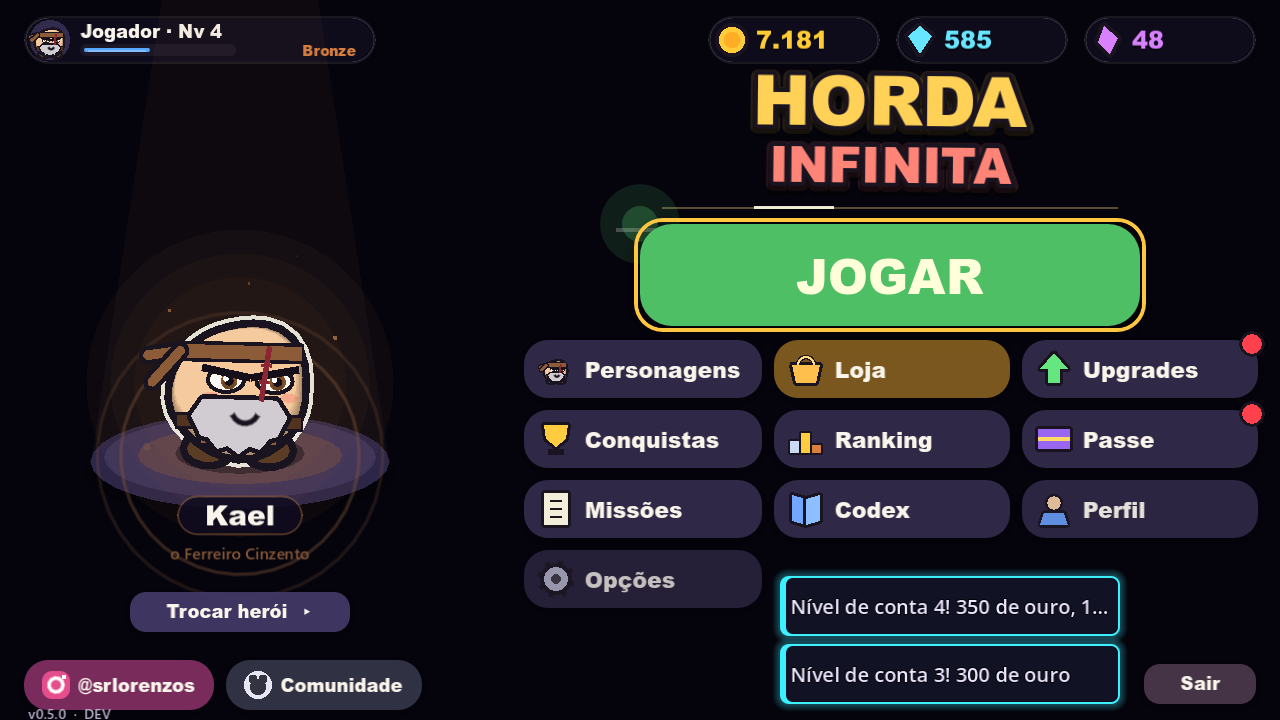
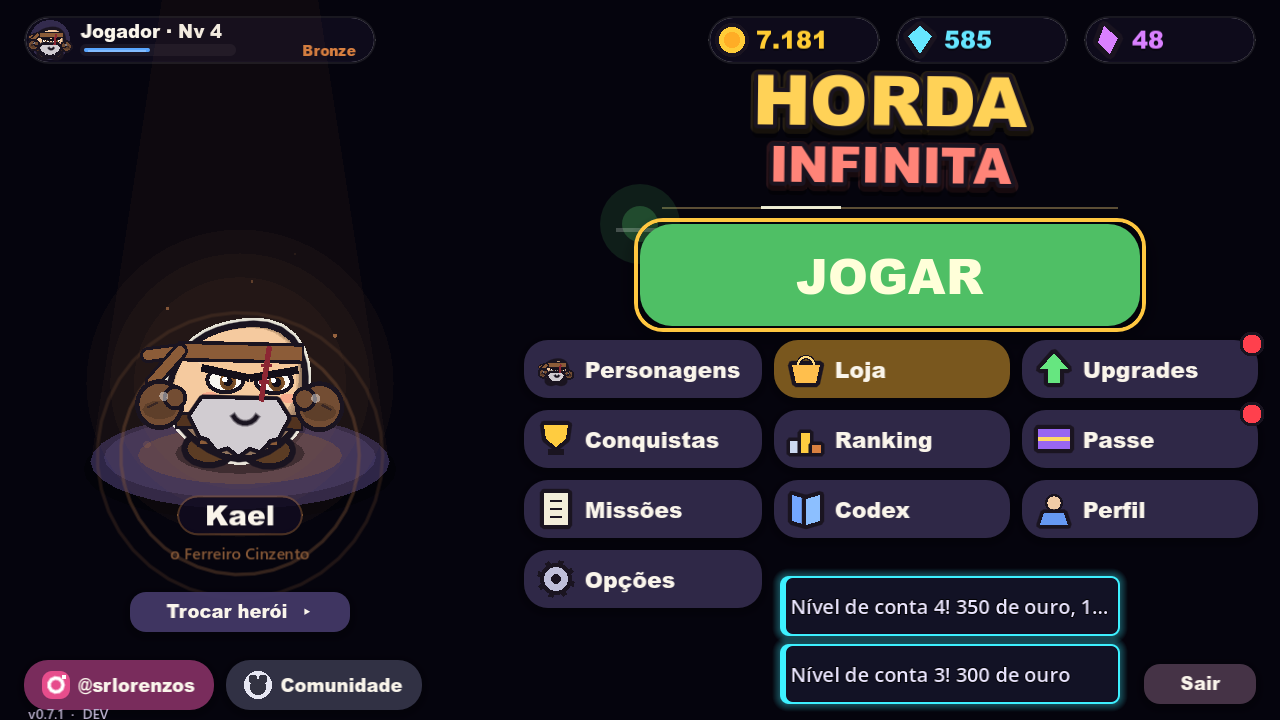
v0.7.1: monstros animados, heróis redesenhados e câmera estável

diff --git a/CHANGELOG.md b/CHANGELOG.md
@@ -1,5 +1,13 @@
 # Novidades
 
+## v0.7.1 — 7 de outubro de 2026
+
+- **Monstros, chefes, baús e moedas com sprites animados.**
+- **Heróis redesenhados**, com mãos segurando a arma.
+- **Botões com reflexo** e acabamento mais bonito.
+- **Início de partida mais movimentado.**
+- **Câmera sempre estável**: o efeito de profundidade ao andar foi removido.
+
 ## v0.6.0 — 7 de outubro de 2026
 
 - **Câmera mais aberta** e ritmo mais acelerado: você vê a horda chegando.
